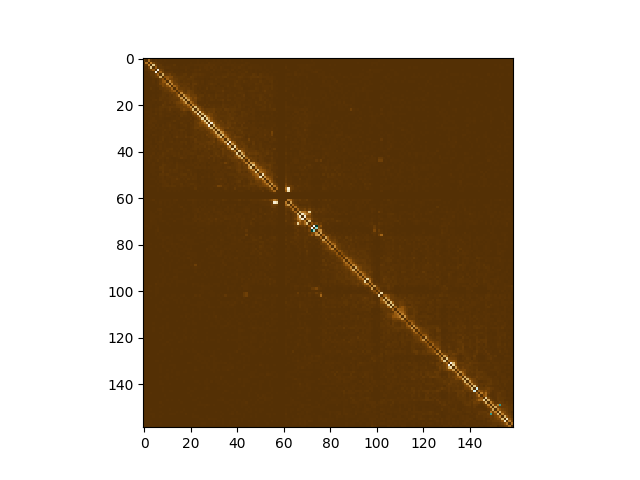
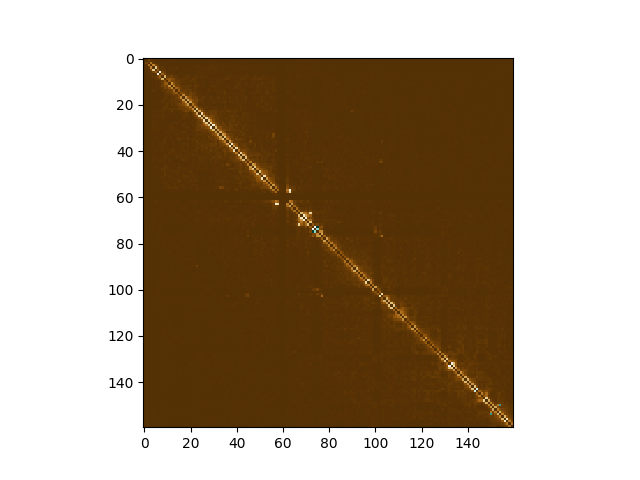
Added results again

diff --git a/Src/create_matrix.py b/Src/create_matrix.py
@@ -1,9 +1,27 @@
 import numpy as np
 import pandas as pd
 import matplotlib.pyplot as plt
+from functools import reduce
 
 import seaborn as sb
 
+def normalization(matric):
+    dim = len(matric)
+    rowSum = [reduce(lambda x, y: x + y, item) for item in matric]
+    #rowSum = sum(sum(matric[i]) for i in range(dim))
+    total = sum([sum(i) for i in matric])
+    print(total)
+    result = [[None] * dim for i in range(dim)]
+    for i in range(dim):
+        for j in range(dim):
+            #print(i, '\t', j, '\t', dim)
+
+            if rowSum[i] != 0 and rowSum[j] != 0:
+                result[i][j] = (matric[i][j]/(rowSum[i] * rowSum[j]))
+            else:
+                result[i][j] = 0
+
+    return result
 
 if __name__ == '__main__':
     binned_data = pd.read_csv('../Results/chromo_7_1MB.txt', sep='\t', header=None)
@@ -14,14 +32,14 @@ if __name__ == '__main__':
     size = max(max(x),max(y))
     print(size+1)
 
-    list_matrix = [[0] * (size) for i in range(size)]
+    list_matrix = [[0] * (size+1) for i in range(size+1)]
 
     i = 0
 
     while i < len(x):
         string = str(x[i]) + '\t' +str(y[i]) + '\t' + str(matrix_data[i])
         print(string)
-        list_matrix[x[i]-1][y[i]-1] = matrix_data[i]
+        list_matrix[x[i]][y[i]] = matrix_data[i]
 
         i += 1
 
@@ -41,3 +59,11 @@ if __name__ == '__main__':
     #plt.show()
     plt.close()
     print(out_matrix)
+
+
+    norm_matrix = normalization(out_matrix)
+
+    plt.imshow(norm_matrix, cmap='BrBG')
+    plt.savefig('../Results/contact_matrix_after_norm.png')
+    #plt.show()
+    plt.close()

diff --git a/Src/parse.py b/Src/parse.py
@@ -34,17 +34,7 @@ def Evaluation(wishDistance, recontructedDistance):
     return correlation
 
 
-def normalization(matric):
-    dim = len(matric)
-    total = sum([sum(i) for i in matric])
-    result = [dim][dim]
-    for i in range(dim):
-        for j in range(dim):
-            rowSum_i = [sum(matric[i]) for i in range(len(dim))]
-            rowSum_j = [sum(matric[j]) for j in range(len(dim))]
-            result[i][j] = result[j][i] = matric[i][j]/(rowSum_i * rowSum_j)*total
 
-    return result
 
 
 def CaDistanceMatrix(fileName):
